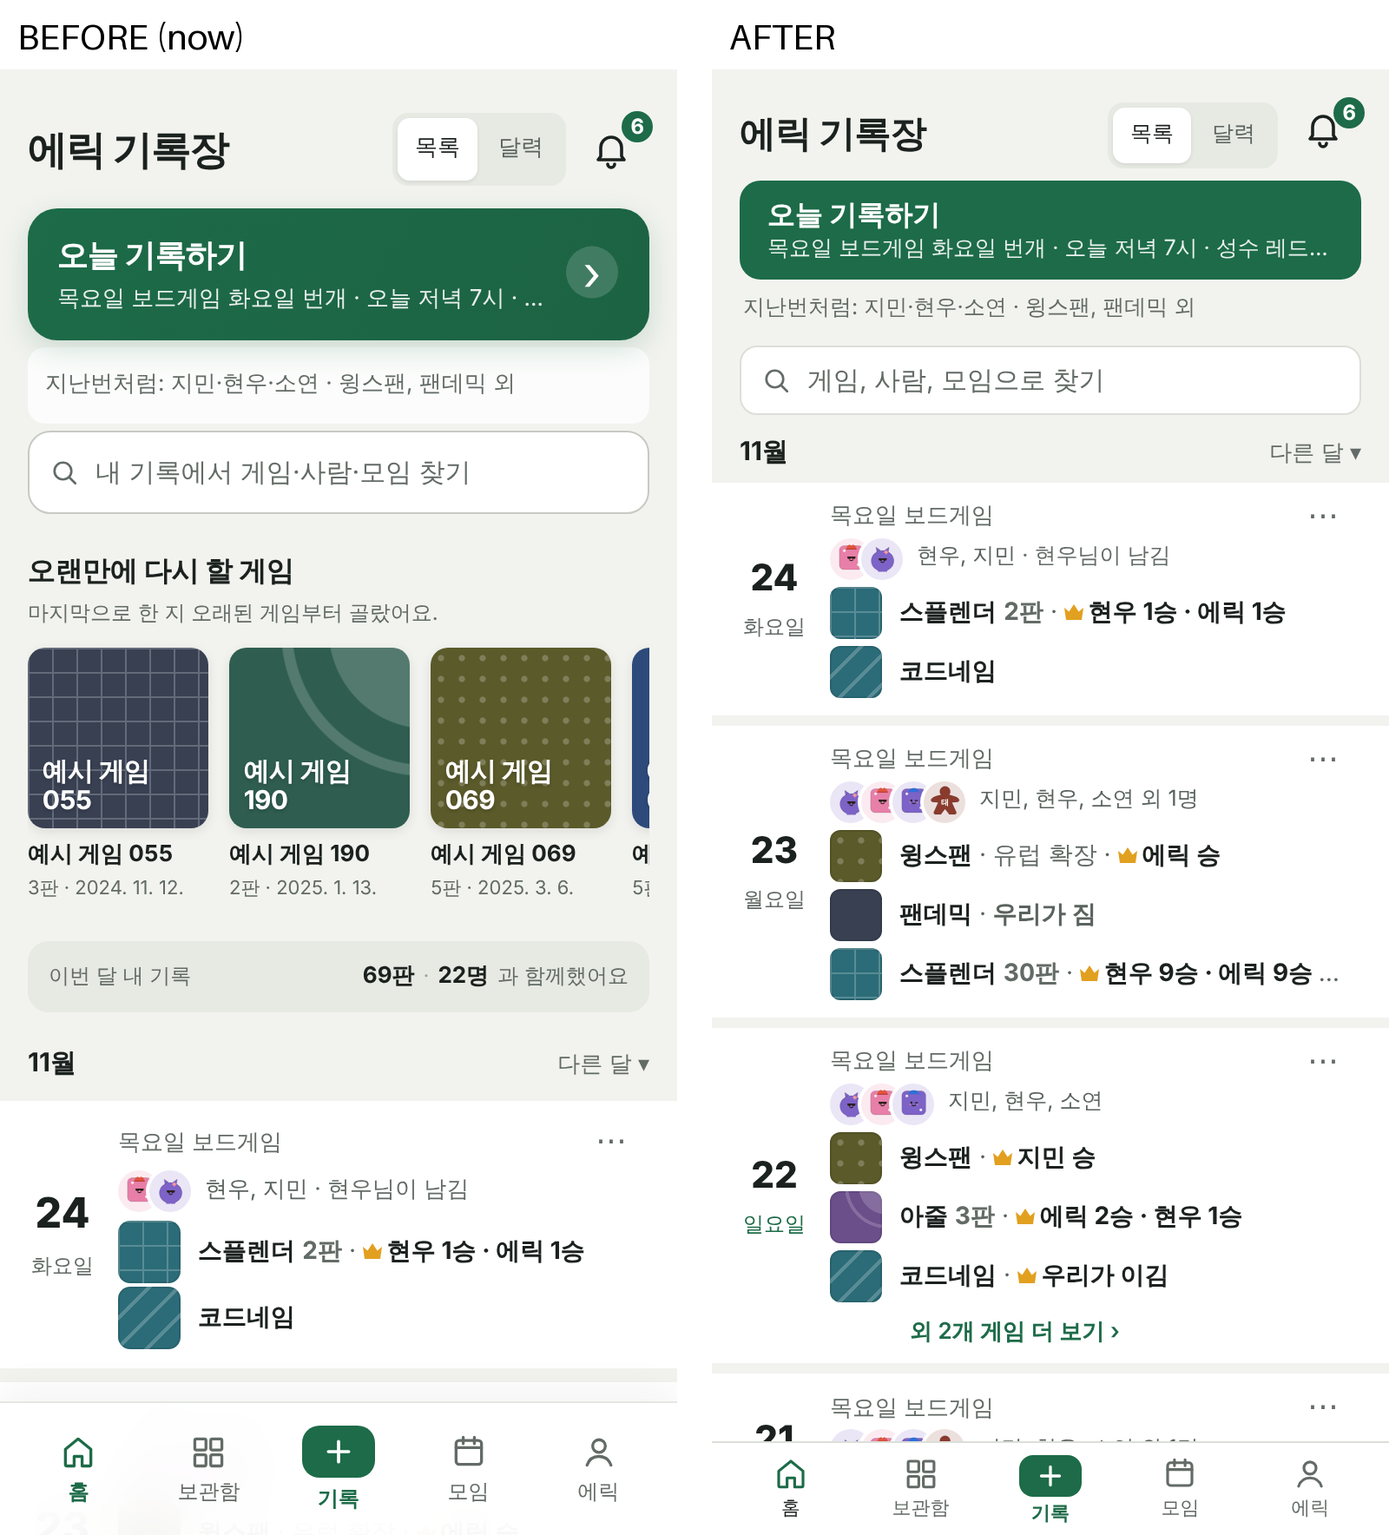
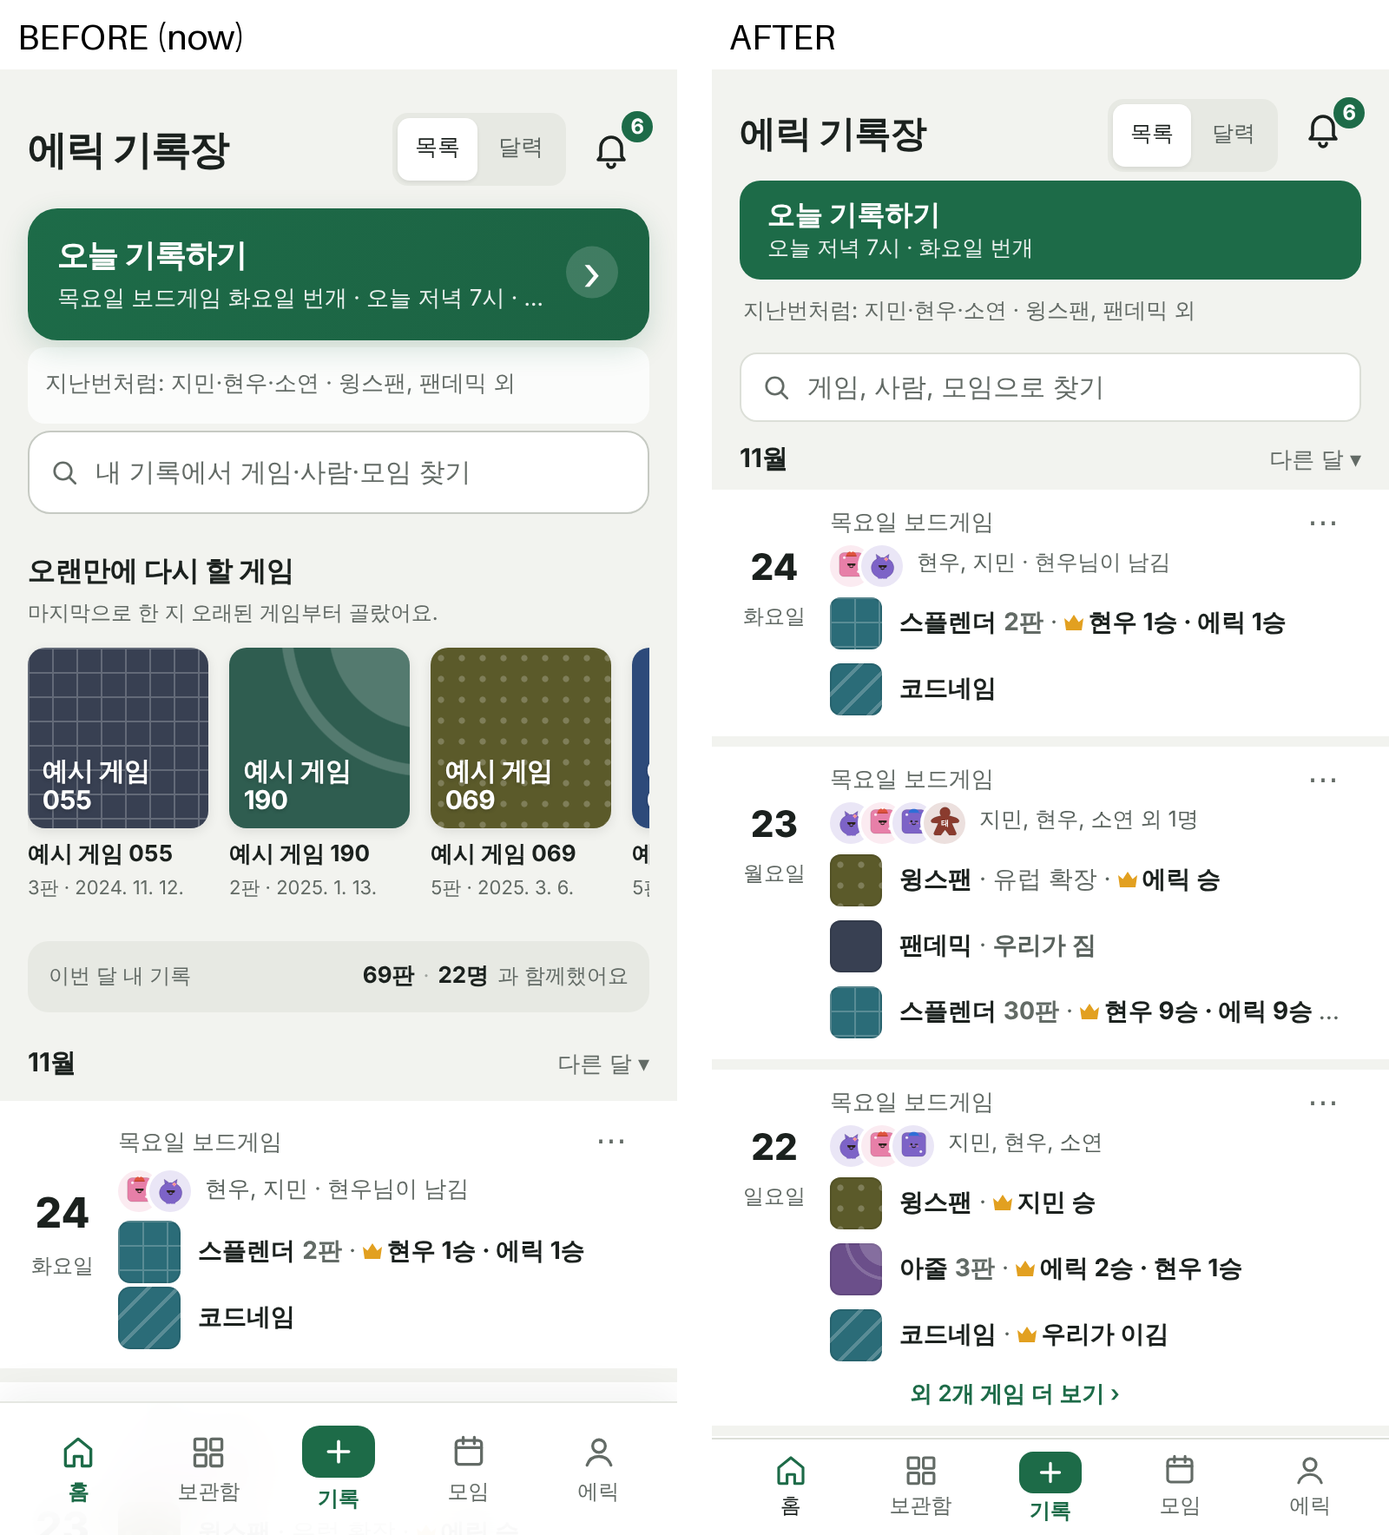
디자인 재검토 반영: 보관함 선반·이름, 세그먼트 폭, 줄바꿈, 다크 모드, 누르는 영역
- 선반: 박스 아래 이름·캡션 자리를 고정해 박스 바닥이 판 위에 놓이게, 이름 항상 표시
- 빌려줌 꼬리표 박스 안쪽, 확장 표시 '확장 N', 사고 싶은 탭 'N판 해봄', 360px도 4칸
- 세그먼트 같은 폭·한 줄, 거르기 버튼 높이 맞춤, 패널 이름표 안 가려지게
- 한국어 단어 단위 줄바꿈, 탭·요일 12px, 게임 줄 36px
- 다크: 고른 칩·평가 카드·세그먼트·선반 판·딤·안내 글씨
- 오늘 기록하기 둘째 줄 시간 먼저, 평가 빈 상태 정리, 질문 탭의 룰 링크 제거, 대화 입력 문구

Claude-Session: https://claude.ai/code/session_011fKsg6Y7RTQ8TP4fFDQNkp

diff --git a/index.html b/index.html
@@ -442,7 +442,7 @@ button.person { font: inherit; cursor: pointer; }
 .sortbtn svg { width: 18px; height: 18px; }
 .sortbtn.on { border-color: var(--accent); color: var(--accent); font-weight: 700; }
 .shseg { flex: 1; min-width: 0; }
-.shseg button { padding: 6px 4px; white-space: nowrap; }
+.shseg { display: grid; grid-template-columns: repeat(3, 1fr); } .shseg button { padding: 6px 4px; white-space: nowrap; }
 .shseg .cnt { color: var(--ink-3); font-size: 12px; font-weight: 400; }
 .topbar h1:has(.h1sub) { min-width: 0; white-space: nowrap; }
 .nowrap { white-space: nowrap; }
@@ -1167,7 +1167,7 @@ textarea.input { min-height: 96px; resize: vertical; line-height: 1.55; }
 .qa-rules a { flex: 1; text-align: center; border: 1px solid var(--line); border-radius: 10px; min-height: 44px; display: grid; place-items: center; font-size: 14px; color: var(--ink); text-decoration: none; background: var(--surface); }
 select.qa-sort { border: 0; background: none; font: inherit; font-size: 13px; color: var(--ink-2); min-height: 44px; }
 .mecpl { display: block; color: var(--cc); font-weight: 700; font-size: 13px; margin-top: 2px; padding: 0; min-height: 32px; }
-.bx-cap:empty { display: none; }
+
 .review .on-game.top { margin: 0; color: var(--ink); font-size: 15px; gap: 8px; }
 .round.folded { display: flex; align-items: center; gap: 8px; width: 100%; text-align: left; border: 0; border-bottom: 1px solid var(--line); background: none; font: inherit; color: inherit; min-height: 44px; padding: 6px 2px; }
 .round.folded .rn { font-size: 13px; color: var(--ink-3); flex: none; }
@@ -1201,7 +1201,7 @@ select.qa-sort { border: 0; background: none; font: inherit; font-size: 13px; co
 .ya-share { position: absolute; top: 10px; right: 10px; z-index: 2; min-height: 36px; padding: 0 14px; border: 0; border-radius: 18px; background: rgba(0,0,0,.55); color: #fff; font-weight: 700; font-size: 14px; }
 .sheet:has(.sheet-foot.stick) { padding-bottom: 0; }
 .sheet-foot.stick { margin-bottom: 0; padding-bottom: calc(20px + env(safe-area-inset-bottom, 0px)); }
-.sheet-foot.stick::after { content: ''; position: absolute; left: 0; right: 0; top: 100%; height: 40px; background: var(--bg); }
+
 
 .cfm-bg { position: fixed; inset: 0; background: rgba(0,0,0,.4); z-index: 80; }
 .confirm.pop { position: fixed; left: 50%; top: 50%; transform: translate(-50%, -50%); width: min(320px, calc(100vw - 48px)); z-index: 81; background: var(--bg); padding: 18px; border-radius: 16px; font-size: 15px; box-shadow: 0 10px 30px rgba(0,0,0,.3); }
@@ -1245,6 +1245,68 @@ h2.sec { margin: 20px 0 8px; font-size: 15px; }
 .field.step { margin-top: 14px; padding-top: 12px; }
 .field { margin-top: 14px; }
 .gl-main { padding: 8px 0; }
+
+/* 디자인 재검토 (11/24) */
+body { word-break: keep-all; overflow-wrap: anywhere; }
+.bx-art { margin-bottom: 0; }
+.bx-txt { display: block; height: 34px; padding-top: 5px; text-align: center; }
+.bx-name { display: block; font-size: 12px; line-height: 15px; font-weight: 600; color: var(--ink); white-space: nowrap; overflow: hidden; text-overflow: ellipsis; }
+.bx-txt .bx-cap { display: block; margin-top: 0; line-height: 14px; font-size: 11.5px; }
+.planks .srow2::after { bottom: 34px; }
+.shelf2 { gap: 16px; }
+.shelf2:not(.planks) .bx-art { aspect-ratio: 1 / 1 !important; }
+.bx-art .tag { top: 4px; right: 4px; transform: rotate(2deg); max-width: calc(100% - 8px); overflow: hidden; text-overflow: ellipsis; white-space: nowrap; }
+.bx.hasx .bx-art::before { inset: -4px -4px 4px 4px; background: color-mix(in srgb, var(--sunk) 70%, var(--ink-3)); outline: 0; }
+.seg { width: 100%; display: flex; } .seg button { flex: 1; }
+.shseg { display: grid; }
+.play .gr-line { text-overflow: ellipsis; }
+@media (prefers-color-scheme: dark) { :root:not([data-theme="light"]) .pill[aria-pressed="true"] { background: var(--accent-fill); border-color: var(--accent-fill); color: #fff; }
+  :root:not([data-theme="light"]) .seg button[aria-pressed="true"] { background: #333936; }
+  :root:not([data-theme="light"]) .writebtn { background: var(--accent-fill); }
+  :root:not([data-theme="light"]) .bx-art .tag { background: #e6d9a8; }
+  :root:not([data-theme="light"]) .cover { outline: 1px solid rgba(255,255,255,.08); outline-offset: -1px; } }
+:root[data-theme="dark"] .pill[aria-pressed="true"] { background: var(--accent-fill); border-color: var(--accent-fill); color: #fff; }
+:root[data-theme="dark"] .seg button[aria-pressed="true"] { background: #333936; }
+:root[data-theme="dark"] .writebtn { background: var(--accent-fill); }
+:root[data-theme="dark"] .bx-art .tag { background: #e6d9a8; }
+
+.sp-l { width: auto; min-width: 52px; flex: none; }
+.sortpanel .pill { min-height: 40px; font-size: 14px; }
+.sortbtn { height: 50px; width: 50px; border-radius: 12px; }
+.tabbar button { font-size: 12px; }
+.play .when .m { font-size: 12px; }
+.play .when .m.we { color: var(--ink-3); }
+.play.card .when { align-self: start; padding-top: 22px; }
+.gr-line { min-height: 36px; }
+.againline { min-height: 40px; }
+.topbar .vsw button { min-height: 36px; }
+.seg.vsw { width: auto; display: inline-flex; }
+@media (prefers-color-scheme: dark) { :root:not([data-theme="light"]) { --shelf-board: #7a6c58; } }
+:root[data-theme="dark"] { --shelf-board: #7a6c58; }
+
+.seg button { white-space: nowrap; min-width: 0; }
+.sheet .seg button { padding-inline: 6px; }
+.sheet { overscroll-behavior: contain; }
+.sheet .tool, .sheet .linkbtn { min-height: 44px; }
+.sheet-foot { box-shadow: 0 -1px 0 var(--line); background: var(--bg); }
+
+.quick .qn { min-height: 30px; }
+
+.detail-hero .cover .t { display: none; }
+.cplday { box-shadow: none; }
+.cplday .when .d { color: inherit; }
+.mrow:last-child, .gl-row:last-child { border-bottom: 0; }
+.evcard.today { border-color: var(--line); }
+@media (prefers-color-scheme: dark) { :root:not([data-theme="light"]) .scrim { background: rgba(0,0,0,.62); }
+  :root:not([data-theme="light"]) .charbtn .edit { background: var(--sunk); color: var(--ink); box-shadow: 0 0 0 1px var(--line); }
+  :root:not([data-theme="light"]) .note { color: #a8aea9; }
+  :root:not([data-theme="light"]) .mrow { border-bottom-color: rgba(255,255,255,.07); } }
+:root[data-theme="dark"] .scrim { background: rgba(0,0,0,.62); }
+:root[data-theme="dark"] .charbtn .edit { background: var(--sunk); color: var(--ink); box-shadow: 0 0 0 1px var(--line); }
+:root[data-theme="dark"] .note { color: #a8aea9; }
+
+.actions.one .btn { flex-direction: row; gap: 8px; min-height: 48px; }
+.actions.one .btn svg { width: 20px; height: 20px; }
 </style>
 
 <div id="app"></div>
@@ -1719,7 +1781,7 @@ function Home({ hq, setHq, openGroups, cm, st, open, startPlay, dismiss, removeF
           <button className="linkbtn muted" onClick=${() => mineR.forEach(x => cm.read(x.id))}>확인</button></div>`; })() : null}
       <${Inbox} st=${st} dismiss=${dismiss} removeFromMine=${removeFromMine}/>
       ${!bellN ? html`<div className="note" style=${{ margin: 0 }}>새 알림이 없어요.</div>` : null}</div><//>` : null}
-    <button className="recbig" onClick=${() => !st.draft && playedToday ? editDay(today()) : startPlay(null)}><b>${draftLabel ? '이어 적기' : '오늘 기록하기'}</b><span>${draftLabel || (playedToday && !st.draft ? '오늘 적은 기록에 이어서 적어요' : todayEv ? `${todayEv[0].name}${todayEv[1].title ? ` ${todayEv[1].title}` : ''} · 오늘 ${fmtTime(todayEv[1].time)}${todayEv[1].place ? ` · ${todayEv[1].place}` : ''}` : dayGroup ? `오늘 ${DOW[todayDow]}요일 · ${dayGroup.name} 모이는 날이에요` : '')}</span></button>
+    <button className="recbig" onClick=${() => !st.draft && playedToday ? editDay(today()) : startPlay(null)}><b>${draftLabel ? '이어 적기' : '오늘 기록하기'}</b><span>${draftLabel || (playedToday && !st.draft ? '오늘 적은 기록에 이어서 적어요' : todayEv ? `오늘 ${fmtTime(todayEv[1].time)} · ${todayEv[1].title || todayEv[0].name}` : dayGroup ? `오늘 ${DOW[todayDow]}요일 · ${dayGroup.name} 모이는 날이에요` : '')}</span></button>
     ${!st.draft && lastDay ? html`<button className="againline" onClick=${() => startPlay(null, true)}>지난번처럼: ${[...new Set(lastDay.plays.flatMap(p => p.people))].slice(0, 3).map(dn).join('·')} · ${[...new Set(lastDay.plays.map(p => GAME[p.gameId] ? GAME[p.gameId].ko : ''))].slice(0, 2).join(', ')}${new Set(lastDay.plays.map(p => p.gameId)).size > 2 ? ' 외' : ''}</button>` : null}
     <div className="search hsearch">${I.games}<input id="home-search" type="search" placeholder="게임, 사람, 모임으로 찾기" value=${hq} onInput=${e => setHq(e.target.value)} autoComplete="off"/></div>
     ${hq.trim() ? html`<div className="note" style=${{ marginTop: 0 }}>'${hq.trim()}' 들어간 기록만 보고 있어요 · <button className="linkbtn inl" onClick=${() => setHq('')}>전체 보기</button></div>` : null}
@@ -1914,7 +1976,7 @@ function Games({ st, open, q, setQ, openBarcode, go, pickWhat, openShelfImg }) {
   const seg = html`<div className="seg tabs shseg" role="tablist">${SEG.map(([k, l, n]) => html`<button key=${k} role="tab" aria-pressed=${mode === k} onClick=${() => setMode(k)}>${l}${mode === k ? html` <span className="cnt num">${n}</span>` : null}</button>`)}</div>`;
   const [lim, setLim] = useState(50);
   const lastP = useMemo(() => { const l = {}; st.plays.forEach(p => { if (!l[p.gameId] || l[p.gameId] < p.date) l[p.gameId] = p.date; }); return l; }, [st.plays]);
-  const counts0 = id => { const n = st.plays.filter(p => p.gameId === id).length; return n ? `해봤어요 ${n}판` : '안 해봄'; };
+  const counts0 = id => { const n = st.plays.filter(p => p.gameId === id).length; return n ? `${n}판 해봄` : '안 해봄'; };
   const favSorted = useMemo(() => favs.filter(id => GAME[id]).sort((a, b) => (lastP[b] || '').localeCompare(lastP[a] || '')), [favs, lastP]);
   const all = useMemo(() => searchGames(q, favs), [q, favs]);
   const list = q ? [...all.filter(g => st.collection[g.id]), ...all.filter(g => !st.collection[g.id])] : favSorted.map(id => GAME[id]);
@@ -2030,7 +2092,7 @@ function GameQnA({ id, st, qa, say, inLayer }) {
   const ordA = q => [...q.answers].sort((a, b) => (b.id === q.pick) - (a.id === q.pick) || (b.up || []).length - (a.up || []).length);
   const xname = x => (exps.find(e => e[0] === x) || [, x])[1];
   return html`<div className="qna">
-    ${!GAME[id].custom ? html`<div className="qa-rules"><a href=${`https://www.youtube.com/results?search_query=${encodeURIComponent(GAME[id].ko + ' 룰 설명')}`} target="_blank" rel="noopener">룰 설명 영상</a><a href=${`https://boardgamegeek.com/boardgame/${id}/files`} target="_blank" rel="noopener">룰북</a></div>` : null}
+    
     ${asking ? html`<div className="qa-ask">
       <textarea id="qa-text" className="input" rows="2" maxLength="300" placeholder="막힌 규칙을 적어 보세요. 비슷한 질문이 먼저 떠요" value=${t} onInput=${e => setT(e.target.value)} autoFocus=${!inLayer}></textarea>
       <div className="qa-askrow">${inLayer ? html`<button className=${'pill sm' + (awake ? ' on' : '')} aria-pressed=${awake} onClick=${toggleAwake}>${awake ? '화면 켜 두는 중' : '화면 켜 두기'}</button>` : html`<button className="linkbtn muted" onClick=${() => { setAsking(false); setT(''); }}>닫기</button>`}
@@ -2113,7 +2175,7 @@ function Detail({ id, st, allReviews, back, startPlay, startReview, toggleOwn, t
       ` : null}
     `: null}
     ${dtab === 'rate' ? html`${(() => { const ws = pub.filter(r => r.weight); const wavg = ws.length ? ws.reduce((a, r) => a + r.weight, 0) / ws.length : 0;
-      return html`<div className="facts two">
+      return !pub.length && !ws.length ? null : html`<div className="facts two">
         <div><b>${pub.length ? html`<${Rate} v=${Math.round(avg * 10) / 10} big/>` : '–'}</b><span>평점 ${pub.length ? `· ${pub.length}명` : ''}</span></div>
         <div><b>${ws.length ? `${wavg.toFixed(2)}` : '–'}<small>${ws.length ? ' / 5' : ''}</small></b><span>난이도 ${ws.length ? `· ${weightWord(wavg)}` : ''}</span></div>
       </div>`; })()}
@@ -2121,7 +2183,7 @@ function Detail({ id, st, allReviews, back, startPlay, startReview, toggleOwn, t
     <button className="writebtn" onClick=${() => startReview(id)}>${I.pen}<span>${myReview ? '평가 고치기' : '평가하기'}</span><span className="d">${myReview ? '평점·난이도·글·사진을 고칠 수 있어요' : '평점만 줘도 돼요. 난이도, 사진·영상도 넣을 수 있어요'}</span></button>
     ${list.length > 5 ? html`<${Seg} value=${rsort} options=${[['new', '최신순'], ['high', '높은 점수'], ['low', '낮은 점수'], ['text', '글 있는 것']]} onChange=${v => { setRsort(v); setRlim(10); }} label="평가 정렬"/>` : null}
     ${list.length ? html`${sortedList.slice(0, rlim).map(r => html`<${ReviewItem} key=${r.id} r=${r} st=${st} hideReview=${hideReview} cm=${cm}/>`)}${sortedList.length > rlim ? html`<${MoreBtn} left=${sortedList.length - rlim} unit="개" onClick=${() => setRlim(rlim + 20)}/>` : null}` :
-      html`<${Empty} title="아직 평가가 없어요" action=${html`<button className="btn primary" onClick=${() => startReview(id)}>첫 평가 남기기</button>`}>해봤다면 첫 평가를 남겨보세요.<//>`}
+      html`<${Empty} title="아직 평가가 없어요">위 버튼으로 첫 평가를 남길 수 있어요.<//>`}
     ` : null}
     ${dtab === 'qa' ? html`<${GameQnA} id=${id} st=${st} qa=${qa} say=${say}/>` : null}
     ${dtab !== 'info' ? null : g.custom ? html`<div className="ext">직접 추가한 게임이에요. 나중에 BGG 게임과 연결할 수 있게 할 거예요.</div>` : html`<div className="ext">게임 정보 출처: <a href=${`https://boardgamegeek.com/boardgame/${g.id}`} target="_blank" rel="noopener">BoardGameGeek</a></div>`}
@@ -2162,7 +2224,7 @@ function ShelfInfo({ info, onChange }) {
 const boxRatio = id => [1, 1, 1, 1.12, 0.78, 1, 1.28, 0.9][hash(id) % 8];
 const CHO = 'ㄱㄲㄴㄷㄸㄹㅁㅂㅃㅅㅆㅇㅈㅉㅊㅋㅌㅍㅎ';
 const initialOf = t => { const c = (t || '').charCodeAt(0); if (c >= 0xac00 && c <= 0xd7a3) { const k = CHO[Math.floor((c - 0xac00) / 588)]; return ({ 'ㄲ': 'ㄱ', 'ㄸ': 'ㄷ', 'ㅃ': 'ㅂ', 'ㅆ': 'ㅅ', 'ㅉ': 'ㅈ' })[k] || k; } const ch = (t || '#')[0].toUpperCase(); return /[A-Z]/.test(ch) ? ch : '#'; };
-function useCols() { const q = () => (window.innerWidth >= 370 ? 4 : 3); const [c, setC] = useState(q); useEffect(() => { const f = () => setC(q()); window.addEventListener('resize', f); return () => window.removeEventListener('resize', f); }, []); return c; }
+function useCols() { const q = () => (window.innerWidth >= 340 ? 4 : 3); const [c, setC] = useState(q); useEffect(() => { const f = () => setC(q()); window.addEventListener('resize', f); return () => window.removeEventListener('resize', f); }, []); return c; }
 function Shelf({ st, open, go, openBarcode, embedded, ids: idsIn, plank = true, captionOf, seg }) {
   const keep = k => { try { return localStorage.getItem('bg-shelf-' + k); } catch (e) { return null; } };
   const put = (k, v) => { try { localStorage.setItem('bg-shelf-' + k, v); } catch (e) {} };
@@ -2206,7 +2268,7 @@ function Shelf({ st, open, go, openBarcode, embedded, ids: idsIn, plank = true, 
       <span className="bx-art" style=${{ aspectRatio: `1 / ${boxRatio(id)}` }}>${c.photo ? html`<img src=${c.photo} alt=""/>` : html`<${Cover} g=${GAME[id]}/>`}
         ${lent ? html`<span className="tag">${c.lentTo || '빌려줌'}</span>` : null}
         ${!counts[id] && !sold ? html`<span className="newdot" title="안 해본 게임"></span>` : null}</span>
-      <span className="bx-cap">${capOf(id)}${xn ? html`<span className="xn">+확장</span>` : null}</span></button>`; };
+      <span className="bx-txt"><span className="bx-name">${GAME[id].ko}</span><span className="bx-cap">${[capOf(id), xn ? `확장 ${xn}` : ''].filter(Boolean).join(' · ') || '\u00a0'}</span></span></button>`; };
   const rows = []; for (let i = 0; i < shown.length; i += cols) rows.push(shown.slice(i, i + cols).map((id, k) => [id, i + k]));
   if (isShelf && !Object.keys(st.collection).length) return html`${seg || null}<div className="emptyshelf"><div className="es-scene"><${Avatar} name=${ME.name} size=${64}/><div className="plank"></div></div>
     <b>첫 게임을 올려 보세요</b><span>BGG 보관함을 한 번에 가져오거나, 박스 바코드를 찍어요.</span><div className="emptyacts"><button className="btn primary" onClick=${() => NAV.settings && NAV.settings()}>BGG에서 가져오기</button><button className="btn" onClick=${openBarcode}>바코드로 담기</button></div></div>`;
@@ -2215,7 +2277,7 @@ function Shelf({ st, open, go, openBarcode, embedded, ids: idsIn, plank = true, 
       <button className=${'sortbtn' + (filt !== 'all' ? ' on' : '')} aria-expanded=${menu} aria-label="정렬·골라 보기" onClick=${() => setMenu(!menu)}>${I.sliders}${filt !== 'all' ? html`<span className="num">1</span>` : null}</button></div>
     ${menu ? html`<div className="sortpanel"><div className="sp-g"><span className="sp-l">정렬</span>${[['recent', '최근 산 순'], ['plays', '많이 한 순'], ['dust', '오래 안 한 순'], ['name', '이름순']].map(([k, l]) => html`<button key=${k} className="pill sm" aria-pressed=${sort === k} onClick=${() => setSort(k)}>${l}</button>`)}</div>
       ${Object.keys(F).length > 1 ? html`<div className="sp-g"><span className="sp-l">골라 보기</span>${Object.entries(F).map(([k, [l, fn]]) => { const c = all.filter(fn).length; return c || k === filt ? html`<button key=${k} className="pill sm" aria-pressed=${filt === k} onClick=${() => { setFilt(k); setLimit(60); }}>${l} <span className="cnt">${c}</span></button>` : null; })}</div>` : null}
-      <div className="sp-g"><span className="sp-l">보기</span>${[['shelf', '선반'], ['stack', '목록']].map(([k, l]) => html`<button key=${k} className="pill sm" aria-pressed=${view === k} onClick=${() => setView(k)}>${l}</button>`)}</div></div>` : null}
+      <div className="sp-g"><span className="sp-l">보기</span>${[['shelf', '선반'], ['stack', '쌓아 보기']].map(([k, l]) => html`<button key=${k} className="pill sm" aria-pressed=${view === k} onClick=${() => setView(k)}>${l}</button>`)}</div></div>` : null}
     ${filt !== 'all' && !menu ? html`<div className="filton"><span>${F[filt][0]} ${ids.length}개만 보는 중</span><button className="linkbtn" onClick=${() => { setFilt('all'); setLimit(60); }}>모두 보기</button></div>` : null}
     ${!ids.length ? html`<div className="note">여기 해당하는 게임이 없어요.</div>` : null}
     ${view === 'shelf' ? html`<div className=${'shelf2' + (plank ? ' planks' : '')} style=${{ '--cols': cols }}>${rows.map((r, ri) => html`<div key=${ri} className="srow2">${r.map(([id, i]) => box(id, i))}</div>`)}</div>` :
@@ -3335,7 +3397,7 @@ function ChatTab({ g, st, upGroup, toPlan }) {
     ${all.slice(-lim).map((m, i, arr) => { if (m.sys) return html`<div key=${m.id} className="msys"><span>${m.text}</span><button className="linkbtn" onClick=${toPlan}>보기</button></div>`; const mine = m.author === '나'; const same = i && !arr[i - 1].sys && arr[i - 1].author === m.author;
       return html`<div key=${m.id} className=${'msg' + (mine ? ' mine' : '') + (same ? ' cont' : '')}>${!mine && !same ? html`<${Avatar} name=${m.author} size=${28}/>` : html`<span className="av-sp"></span>`}
         <div className="mb">${!mine && !same ? html`<div className="ma">${m.author}</div>` : null}<div className="row"><span className="bub">${m.text}</span><span className="mt">${tm(m.at)}</span></div></div></div>`; })}
-    <form className="chatin" onSubmit=${send}><input className="input" placeholder=${`${g.name}에 메시지`} maxLength="500" value=${t} onInput=${e => setT(e.target.value)}/><button className="btn primary" type="submit" disabled=${!t.trim()}>보내기</button></form>
+    <form className="chatin" onSubmit=${send}><input className="input" placeholder="메시지 보내기" maxLength="500" value=${t} onInput=${e => setT(e.target.value)}/><button className="btn primary" type="submit" disabled=${!t.trim()}>보내기</button></form>
   </div>`;
 }
 function GroupIntro({ g, st, back, open, counts, joined, say }) {
